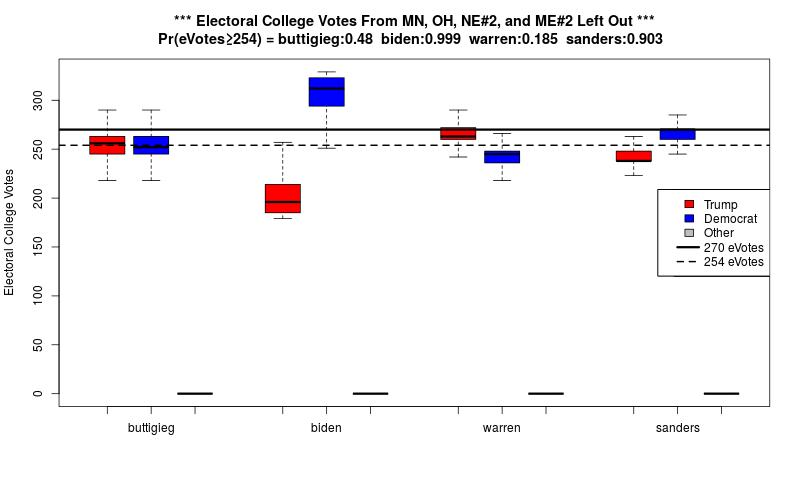
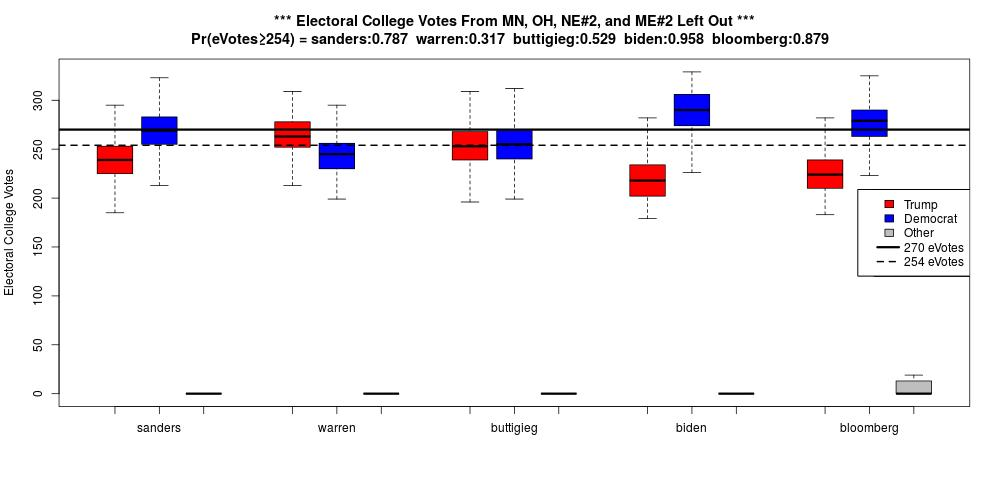
effective sample size a few new polls and added bloomberg

diff --git a/02272020/README.md b/02272020/README.md
@@ -76,25 +76,18 @@ and Pennsylvania. Although I would like to add Minnesota and Ohio pending
 decent polls from those states. I have tried to limit poll inclusion to polls 
 present on FiveThirtyEight appearing within the last two-three months and that 
 achieve at least a B+ pollster rating from FiveThirtyEight. When more than one 
-recent quality poll exists in a state, I aggregate those polls by averaging polled 
-proportions and sample sizes. Proportion averages are weighted base upon their 
-relative sample sizes. In order to handle the lack of independence between 
-(and within) polls, sample sizes must be deflated to account for sampling 
-correlations. I apply a sample size deflation factor which when run on the 
-2016 election produces a similar election outcome probability as 
-FiveThirtyEight did (H:0.7 v T:0.3). If I had access to the raw poll data I 
-could compute the effective sample size directly by estimating the within poll 
-correlations. Better yet, a weighting scheme as used by FiveThirtyEight could 
-be used to estimate Kish's Effective Sample Size. 
+recent quality poll exists in a state, I aggregate those polls by adding their 
+sample sizes and I compute a weighted averaging of their proportions based on 
+their relative sample sizes.  
 
-Some states do not have recent, and high quality, polls. Furthermore, the 
-polls that do exists for these states exclude some candiates. Until new polls 
-exist in these states I loosen the standard for poll inclusion in these states. 
-For these states I extend poll inclusion to polls that are up to four months 
-old and lower the pollster standard to at least a B- rating. I fill in missing 
-candidate's poll numbers by filling in the average among all other swing states, 
-with a sample size of one. This has the effect of increasing uncertainty without 
-swaying mean performance. 
+Some states (right now just Arizona) do not have recent, and high quality, polls. 
+Furthermore, the polls that do exists for these states exclude some candiates. 
+Until new polls exist in these states I loosen the standard for poll inclusion
+in these states. For these states I extend poll inclusion to polls that are up 
+to four months old and lower the pollster standard to at least a B- rating. I 
+fill in missing candidate's poll numbers by filling in the average among all 
+other swing states, with a sample size of one. This has the effect of increasing 
+uncertainty about Buttigieg without swaying his mean performance. 
 
 # A Measure of Success
 
